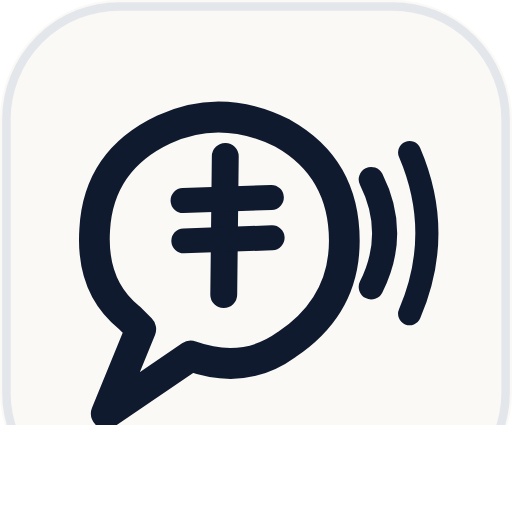
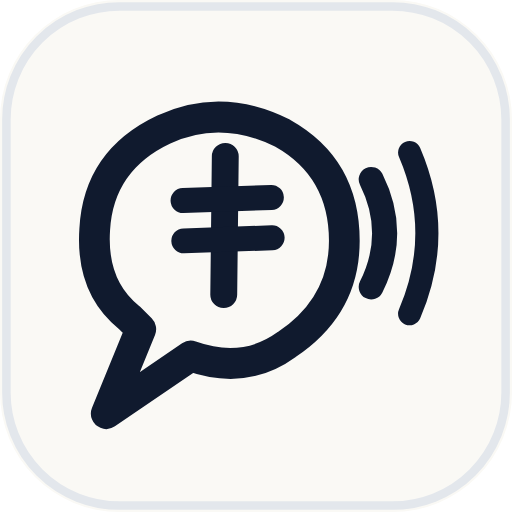
影片片尾卡 1920×1080：QR code 現算，不是貼圖
scripts/make-endcard.py 用 segno 把兩個網址編成 QR 矩陣、壓成向量路徑後
嵌進 SVG，所以畫面標籤和實際掃到的網址不可能對不上；改網址改腳本重跑即可。

糾錯等級用 M 而不是 H——片尾卡只在螢幕上停幾秒，模組大小比容錯重要，
H 會讓模組變密、遠距離反而更難掃。

驗證：用 zxing-cpp 從實際算繪出來的 PNG 解碼，兩個網址都正確；把 PNG 縮到
25%（480×270，模擬影片壓縮與遠距離）仍然兩個都解得出來。

順手修掉 PNG 匯出的裁切問題：Chromium 的 --window-size 等於畫布高度時，
底部會被截掉約一成（片尾卡的頁尾那行原本就這樣消失了）。改成用高 200px
的視窗算繪再裁回精確尺寸，branding/png/ 全部重新產生。

Claude-Session: https://claude.ai/code/session_01QUCUcPpEp9rJ3GmFYxTgh4

diff --git a/scripts/make-endcard.py b/scripts/make-endcard.py
@@ -1,0 +1,84 @@
+#!/usr/bin/env python3
+"""產生影片片尾卡（1920×1080）。
+
+QR code 用 segno 現算，不是貼圖：改網址重跑就好，掃描永遠對得上畫面標籤。
+糾錯等級刻意用 M 而不是 H——片尾卡只在螢幕上停幾秒，模組大小比容錯重要，
+H 會讓模組變密、遠距離反而難掃。
+
+用法：python3 scripts/make-endcard.py > branding/chui-endcard.svg
+"""
+import segno
+
+SITE = "https://chuiprotocol.com"
+REPOS = "https://github.com/orgs/chuiprotocol/repositories"
+
+INK, MUTED, IVORY, SKY, LINE = "#101A2E", "#5A6879", "#FAF9F5", "#6A9BCC", "#E3E7EC"
+CJK = "'PingFang TC','Noto Sans TC','Microsoft JhengHei',system-ui,sans-serif"
+LAT = "'Avenir Next','Helvetica Neue',ui-rounded,system-ui,sans-serif"
+
+
+def qr_path(data, x, y, size):
+    """把 QR 矩陣壓成單一 path：每列連續的黑模組合併成一個矩形。"""
+    qr = segno.make(data, error="m")
+    m = [list(row) for row in qr.matrix]
+    n = len(m)
+    unit = size / n
+    seg = []
+    for r, row in enumerate(m):
+        c = 0
+        while c < n:
+            if row[c]:
+                start = c
+                while c < n and row[c]:
+                    c += 1
+                px, py = x + start * unit, y + r * unit
+                w, h = (c - start) * unit, unit
+                seg.append(f"M{px:.2f} {py:.2f}h{w:.2f}v{h:.2f}h-{w:.2f}z")
+            else:
+                c += 1
+    return "".join(seg), qr.version, n
+
+
+site_d, site_v, site_n = qr_path(SITE, 570, 540, 300)
+repo_d, repo_v, repo_n = qr_path(REPOS, 1050, 540, 300)
+
+MARK = f'''  <g transform="translate(865.2 49.6) scale(1.573)">
+    <g transform="translate(-3 1.5)" stroke="{INK}" stroke-linecap="round" stroke-linejoin="round" fill="none">
+      <path stroke-width="8" d="M33 77 L24 99 L46 84 Q60 89 71 81 Q86 71 86 54 Q86 35 70 26 Q54 18 39 25 Q22 33 21 51 Q20 66 30 74 Z"/>
+      <path stroke-width="7"   d="M55 32 L54.6 68"/>
+      <path stroke-width="6.5" d="M44 43.5 L67 42.7"/>
+      <path stroke-width="6.5" d="M44.2 54 L67.2 53.2"/>
+      <path stroke-width="6.5" d="M93 38 Q100 52 93 66"/>
+      <path stroke-width="6"   d="M103 31 Q112 52 103 73"/>
+    </g>
+  </g>'''
+
+print(f'''<svg xmlns="http://www.w3.org/2000/svg" viewBox="0 0 1920 1080" fill="none"
+     role="img" aria-labelledby="chui-endcard-title">
+  <title id="chui-endcard-title">Chui Protocol 嘴付協議 — 開口就買單，嘴付真簡單。官網 chuiprotocol.com，GitHub chuiprotocol</title>
+  <!-- 影片片尾卡 1920×1080。由 scripts/make-endcard.py 產生，勿手改。
+       QR code 是現算的（segno，糾錯等級 M），改網址請改腳本裡的 SITE／REPOS 再重跑。
+       官網 QR＝{SITE}（版本 {site_v}，{site_n}×{site_n} 模組）
+       GitHub QR＝{REPOS}（版本 {repo_v}，{repo_n}×{repo_n} 模組） -->
+  <rect width="1920" height="1080" fill="{SKY}"/>
+  <path fill="{IVORY}" d="M128 42 Q60 50 54 118 L48 878 Q44 1002 136 1008 L1764 1010 Q1860 1012 1864 926 L1868 124 Q1868 42 1780 40 Z"/>
+{MARK}
+  <text x="960" y="296" text-anchor="middle" textLength="436" lengthAdjust="spacingAndGlyphs"
+        font-family="{LAT}" font-size="68" font-weight="800" fill="{INK}">Chui Protocol</text>
+  <text x="960" y="342" text-anchor="middle" textLength="184" lengthAdjust="spacingAndGlyphs"
+        font-family="{CJK}" font-size="32" font-weight="700" fill="{MUTED}">嘴付協議</text>
+  <text x="960" y="456" text-anchor="middle" textLength="858" lengthAdjust="spacingAndGlyphs"
+        font-family="{CJK}" font-size="78" font-weight="800" fill="{INK}">開口就買單，嘴付真簡單</text>
+
+  <rect x="550" y="520" width="340" height="340" rx="24" fill="#FFFFFF" stroke="{LINE}" stroke-width="2"/>
+  <path fill="{INK}" d="{site_d}"/>
+  <rect x="1030" y="520" width="340" height="340" rx="24" fill="#FFFFFF" stroke="{LINE}" stroke-width="2"/>
+  <path fill="{INK}" d="{repo_d}"/>
+
+  <text x="720" y="908" text-anchor="middle" textLength="290" lengthAdjust="spacingAndGlyphs"
+        font-family="{CJK}" font-size="30" font-weight="700" fill="{INK}">官網 chuiprotocol.com</text>
+  <text x="1200" y="908" text-anchor="middle" textLength="290" lengthAdjust="spacingAndGlyphs"
+        font-family="{CJK}" font-size="30" font-weight="700" fill="{INK}">GitHub · chuiprotocol</text>
+  <text x="960" y="962" text-anchor="middle" textLength="600" lengthAdjust="spacingAndGlyphs"
+        font-family="{CJK}" font-size="26" font-weight="600" fill="{MUTED}">Sui Testnet · USDC · 對話紀錄端對端加密</text>
+</svg>''')

diff --git a/branding/README.md b/branding/README.md
@@ -17,6 +17,7 @@
 | `chui-lockup.svg` | 橫式：文件頁首、簡報頁首 |
 | `chui-lockup-stacked.svg` | 直式：影片片尾卡、正方形頭像、海報中央 |
 | `chui-banner.svg` | README 頁首橫幅 1280×440 |
+| `chui-endcard.svg` | 影片片尾卡 1920×1080（含兩個 QR code） |
 
 ## 規則
 
@@ -37,3 +38,18 @@
 | `png/chui-lockup@2x.png` | 1320×408（去背） |
 | `png/chui-lockup-stacked@2x.png` | 1200×900（去背） |
 | `png/chui-app-icon-512.png` | 512×512 |
+| `png/chui-endcard-1920x1080.png` | 1920×1080，片尾卡 |
+
+## 片尾卡與 QR code
+
+`chui-endcard.svg` **由 `scripts/make-endcard.py` 產生，不要手改**——手改會在下次
+重跑時被蓋掉。QR code 是用 segno 現算成向量路徑後嵌進 SVG，不是貼上來的圖，
+所以畫面上的標籤和實際掃到的網址永遠一致。改網址請改腳本裡的 `SITE`／`REPOS`：
+
+```bash
+python3 scripts/make-endcard.py > branding/chui-endcard.svg
+```
+
+糾錯等級刻意用 **M 而不是 H**：片尾卡只在螢幕上停幾秒，模組大小比容錯重要，
+H 會讓模組變密、遠距離反而更難掃。改完請實際解碼驗證（`zxing-cpp` + `pillow`），
+把 PNG 縮到 25% 仍要能解出兩個網址。
